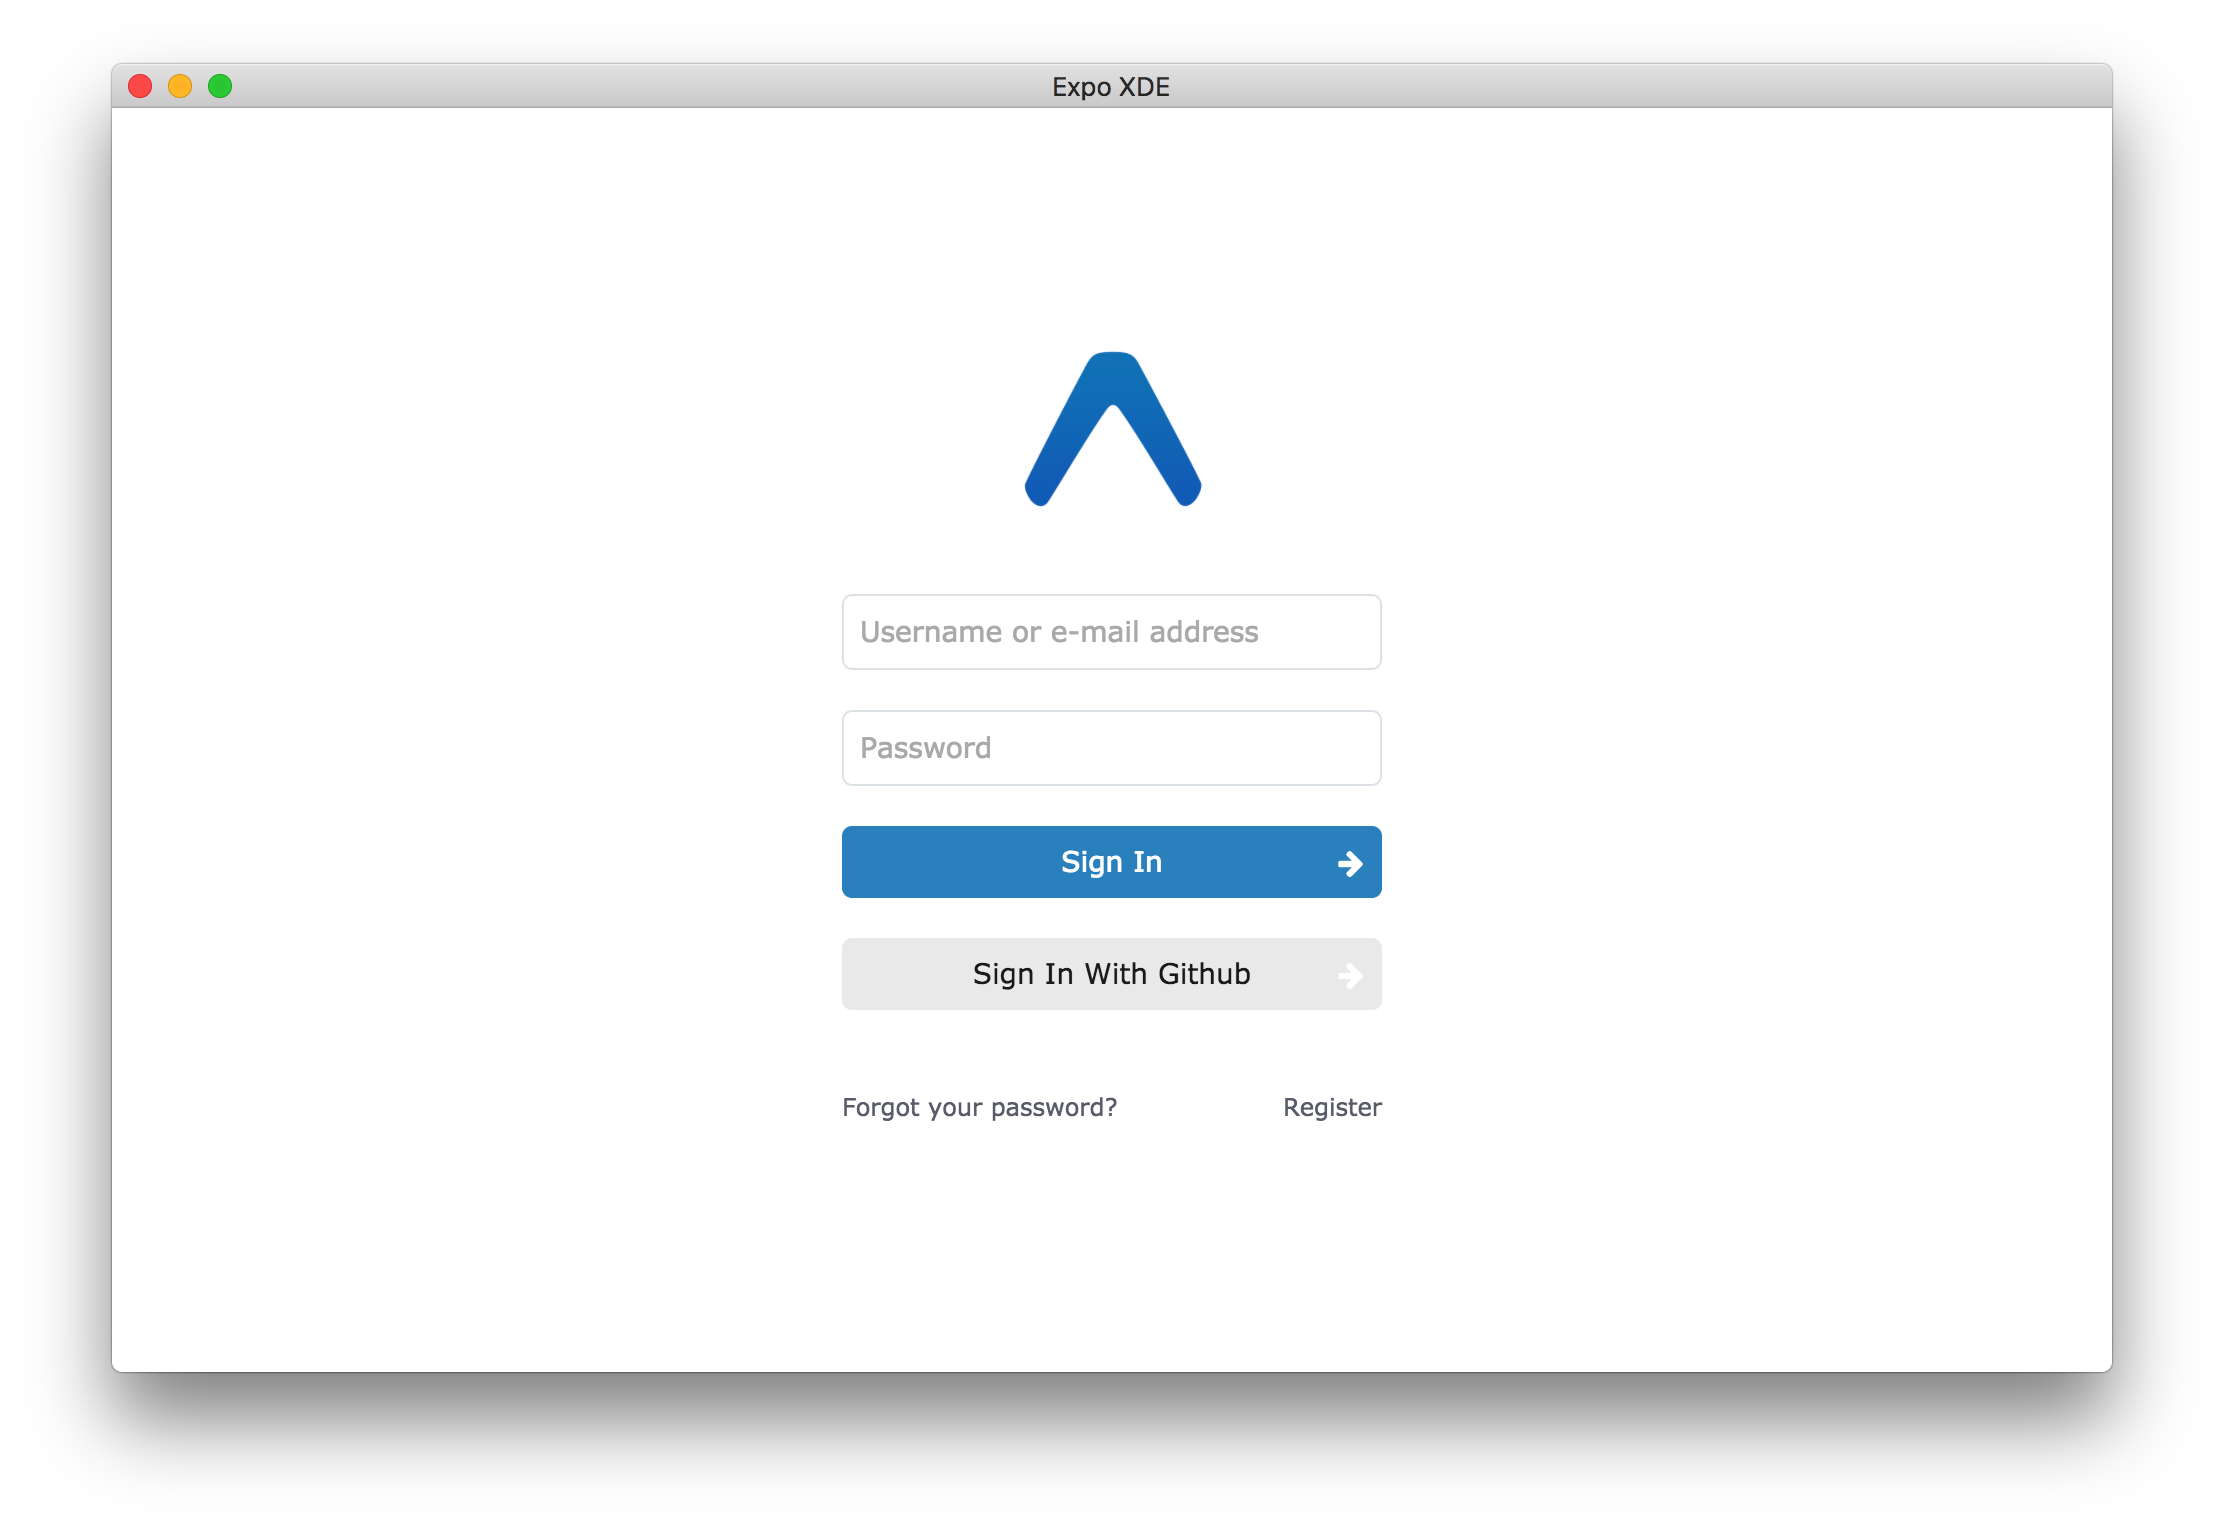
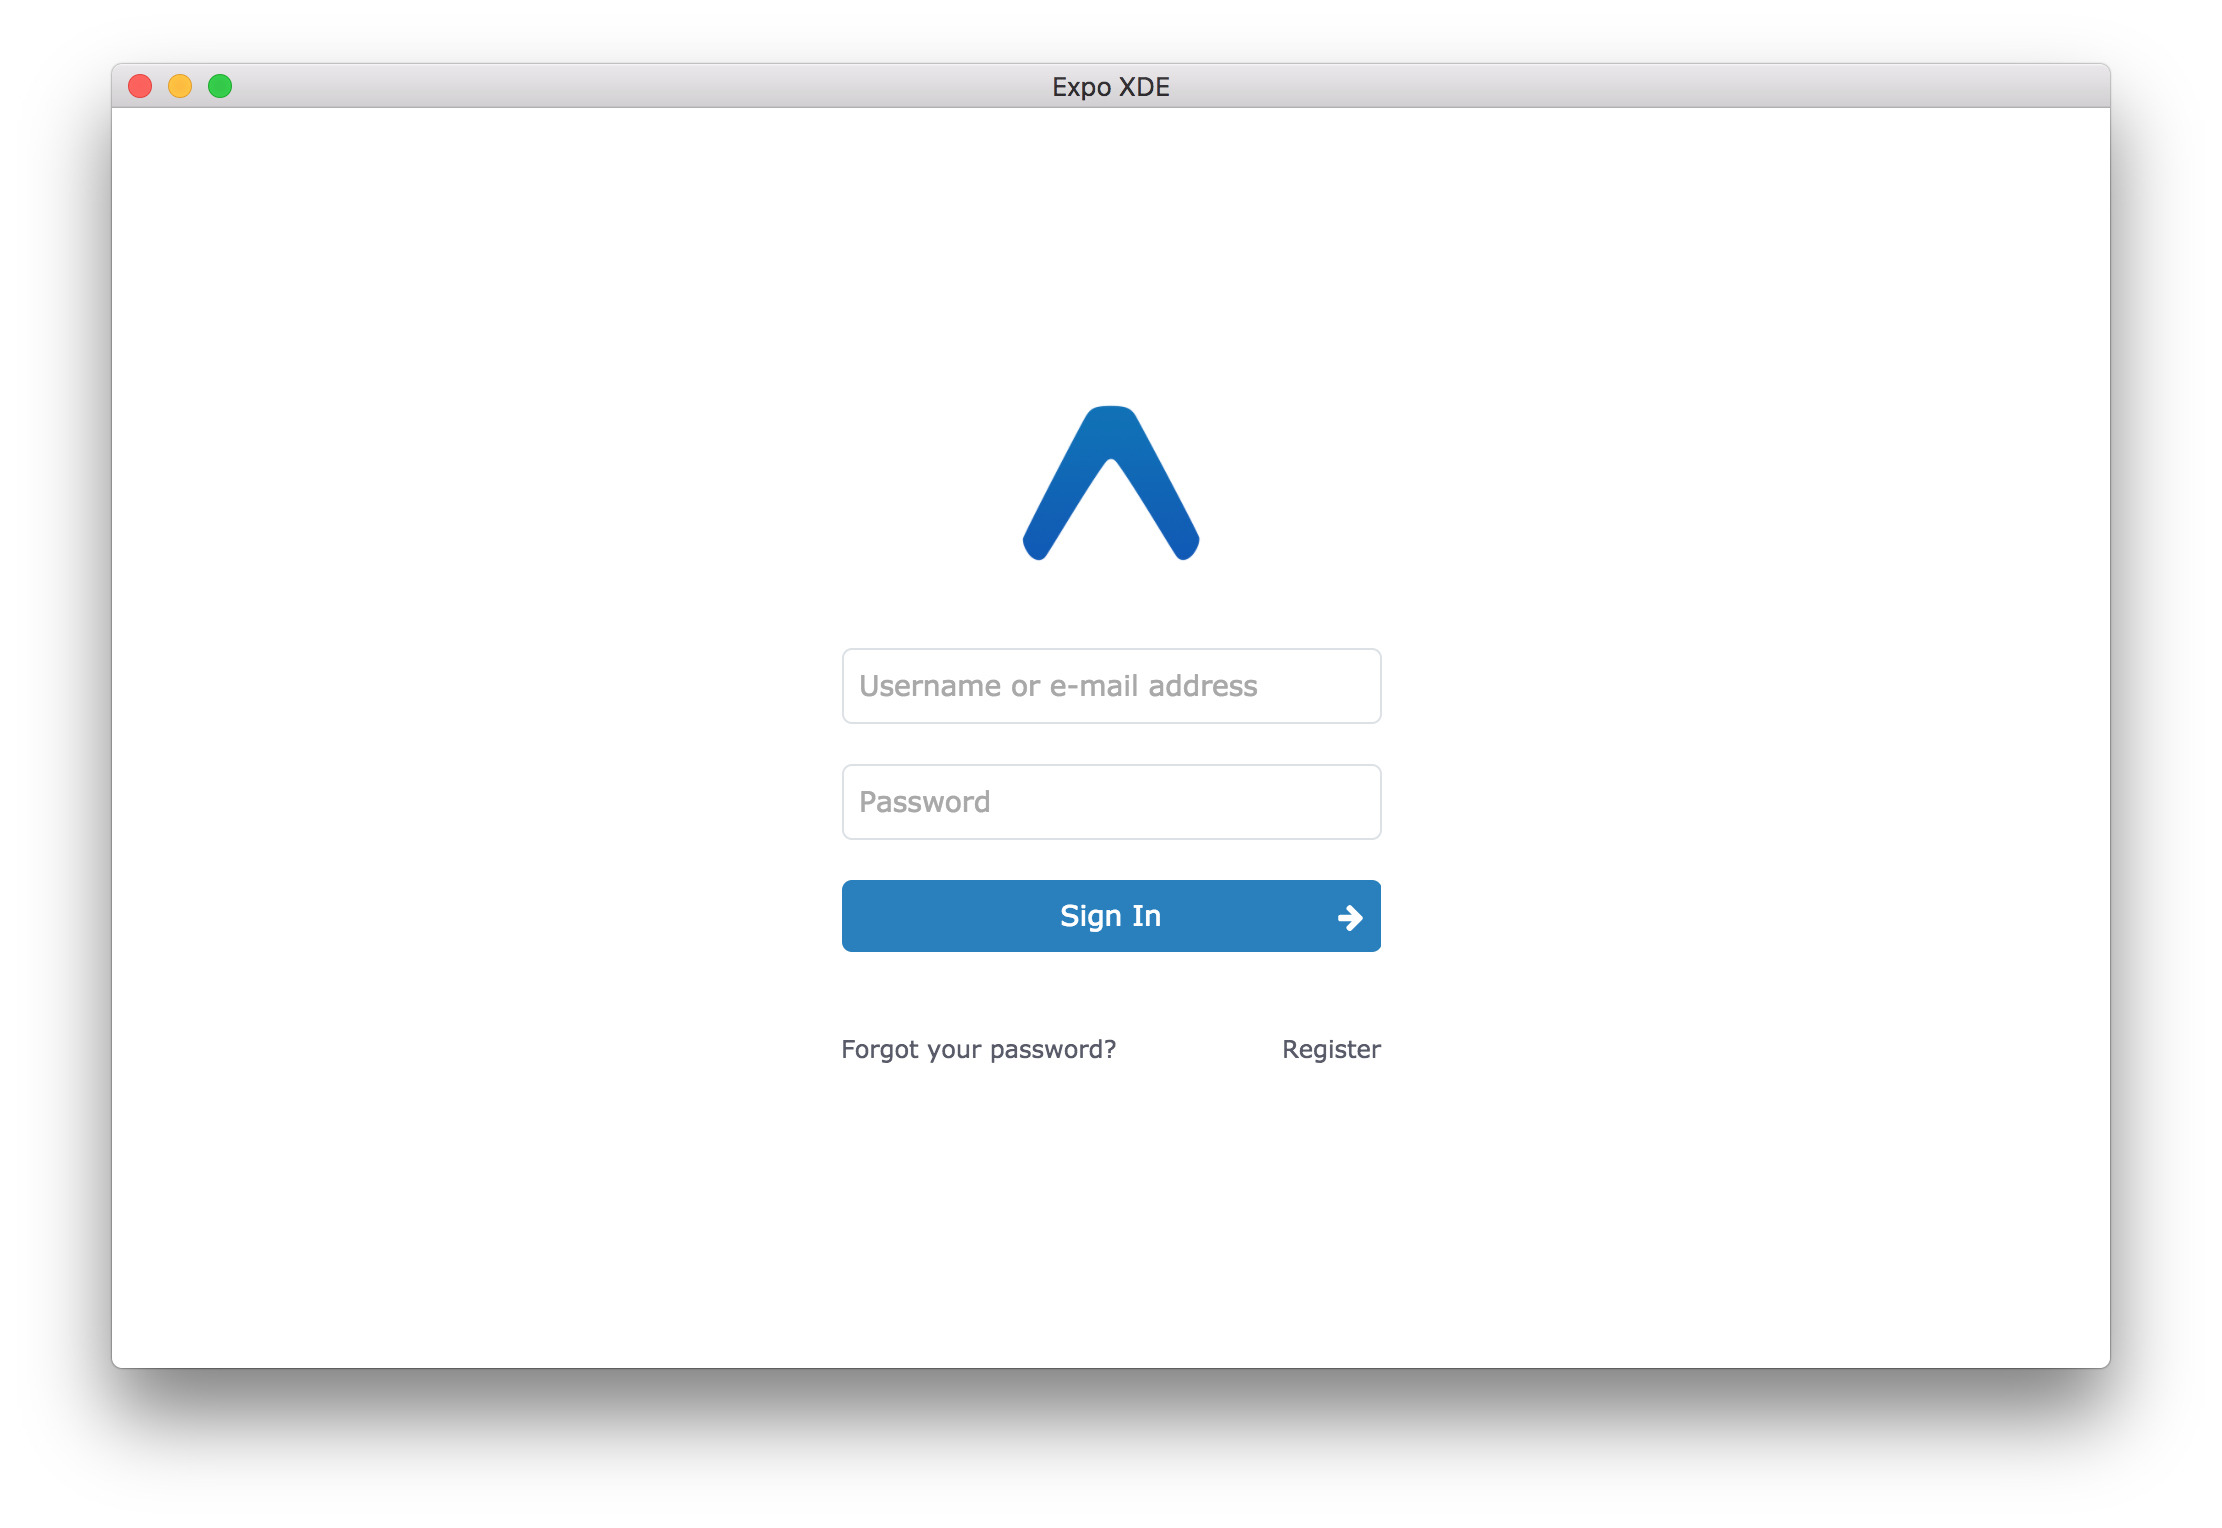
Update XDE login screenshot and XDE tour
fbshipit-source-id: 4db8dac

diff --git a/versions/unversioned/introduction/xde-tour.md b/versions/unversioned/introduction/xde-tour.md
@@ -4,7 +4,7 @@ title: XDE Tour
 
 ## Sign in screen
 
-When you open XDE for the first time you'll be greeted by this sign in screen. If you have an account already, go ahead and sign in. If you don't, either sign in with Github or register an account.![XDE sign in screen](./xde-signin.png)
+When you open XDE for the first time you'll be greeted by this sign in screen. If you have an account already, go ahead and sign in. If you don't, you can register an account.![XDE sign in screen](./xde-signin.png)
 
 ## Home screen
 
@@ -43,4 +43,3 @@ In addition to the options provided from the home screen, with a project opened 
 While you work on your project, it is given a temporary URL which is served from your computer. When you're ready to share the project with others, you can **Publish** the project to get a permanent URL (something like `expo.io/@your-username/your-app-slug`) that anybody can open with the Expo Client.
 
 When you click the **Publish** button in XDE, you'll be asked to confirm that you want your project to be available to the public. XDE takes some time to generate your minified JS bundle and upload your Assets to our servers, and once it's done, prints out your app's published URL. You can read more details about how publishing works in [How Expo Works](../guides/how-expo-works.html#how-expo-works) and the [Publishing guide](../guides/publishing.html).![XDE publish](./xde-publish.png)
-
